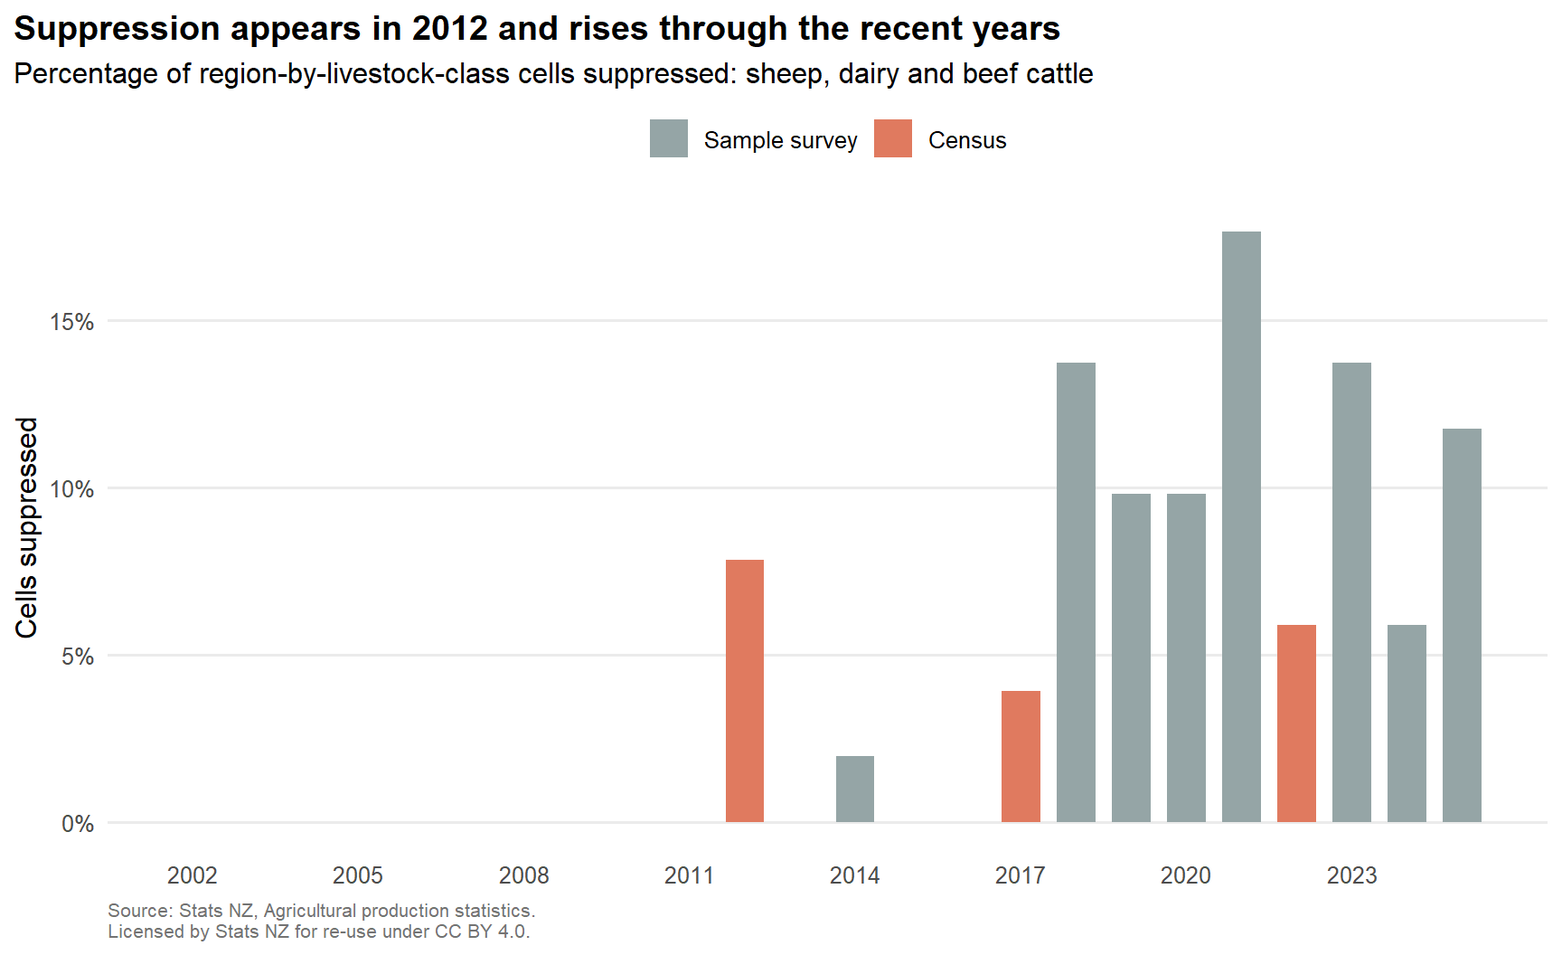
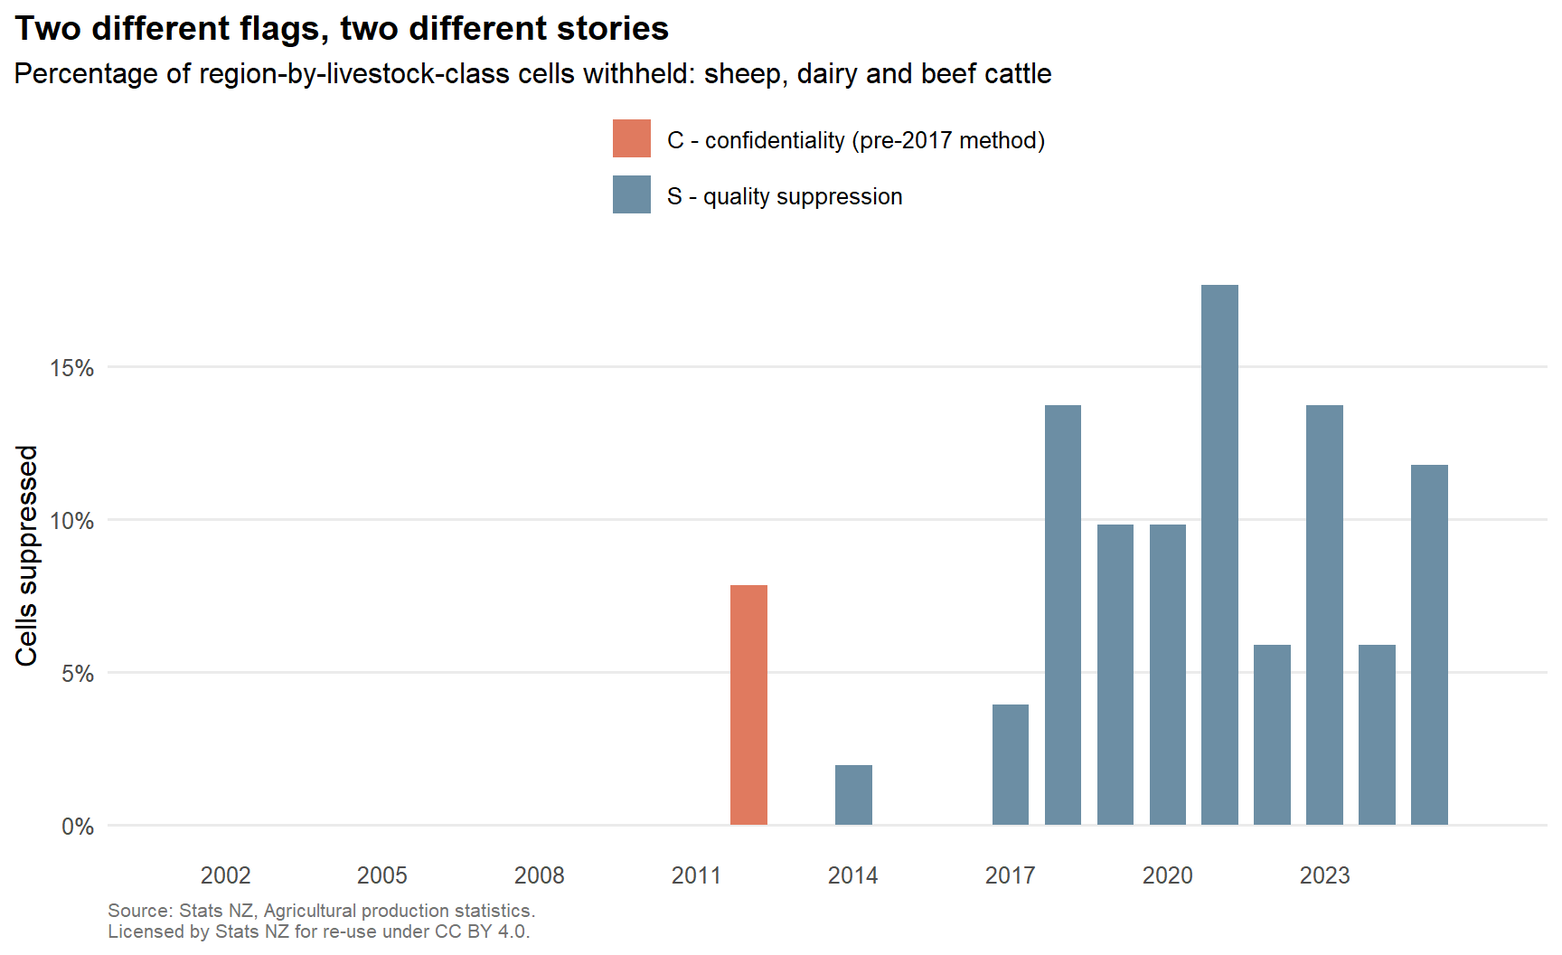
Built site for gh-pages

diff --git a/index.html b/index.html
@@ -700,29 +700,30 @@ Table&nbsp;3
 <div class="cell">
 <details class="code-fold">
 <summary>Show the code</summary>
-<div class="code-copy-outer-scaffold"><div class="sourceCode cell-code" id="cb6"><pre class="sourceCode r code-with-copy"><code class="sourceCode r"><span id="cb6-1"><a href="#cb6-1" aria-hidden="true" tabindex="-1"></a>p3 <span class="ot">&lt;-</span> <span class="fu">ggplot</span>(supp, <span class="fu">aes</span>(<span class="at">x =</span> year, <span class="at">y =</span> rate)) <span class="sc">+</span></span>
-<span id="cb6-2"><a href="#cb6-2" aria-hidden="true" tabindex="-1"></a>  <span class="fu">geom_col</span>(<span class="fu">aes</span>(<span class="at">fill =</span> is_census_year), <span class="at">width =</span> <span class="fl">0.7</span>) <span class="sc">+</span></span>
-<span id="cb6-3"><a href="#cb6-3" aria-hidden="true" tabindex="-1"></a>  <span class="fu">scale_fill_manual</span>(<span class="at">values =</span> <span class="fu">c</span>(<span class="st">"FALSE"</span> <span class="ot">=</span> <span class="st">"#95a5a6"</span>, <span class="st">"TRUE"</span> <span class="ot">=</span> <span class="st">"#e07a5f"</span>),</span>
-<span id="cb6-4"><a href="#cb6-4" aria-hidden="true" tabindex="-1"></a>                    <span class="at">labels =</span> <span class="fu">c</span>(<span class="st">"Sample survey"</span>, <span class="st">"Census"</span>), <span class="at">name =</span> <span class="cn">NULL</span>) <span class="sc">+</span></span>
-<span id="cb6-5"><a href="#cb6-5" aria-hidden="true" tabindex="-1"></a>  <span class="fu">scale_x_continuous</span>(<span class="at">breaks =</span> <span class="fu">seq</span>(<span class="dv">2002</span>, <span class="dv">2025</span>, <span class="dv">3</span>)) <span class="sc">+</span></span>
+<div class="code-copy-outer-scaffold"><div class="sourceCode cell-code" id="cb6"><pre class="sourceCode r code-with-copy"><code class="sourceCode r"><span id="cb6-1"><a href="#cb6-1" aria-hidden="true" tabindex="-1"></a>p3 <span class="ot">&lt;-</span> <span class="fu">ggplot</span>(supp_by_code, <span class="fu">aes</span>(<span class="at">x =</span> year, <span class="at">y =</span> rate)) <span class="sc">+</span></span>
+<span id="cb6-2"><a href="#cb6-2" aria-hidden="true" tabindex="-1"></a>  <span class="fu">geom_col</span>(<span class="fu">aes</span>(<span class="at">fill =</span> label), <span class="at">width =</span> <span class="fl">0.7</span>) <span class="sc">+</span></span>
+<span id="cb6-3"><a href="#cb6-3" aria-hidden="true" tabindex="-1"></a>  <span class="fu">scale_fill_manual</span>(<span class="at">values =</span> <span class="fu">c</span>(<span class="st">"C - confidentiality (pre-2017 method)"</span> <span class="ot">=</span> <span class="st">"#e07a5f"</span>,</span>
+<span id="cb6-4"><a href="#cb6-4" aria-hidden="true" tabindex="-1"></a>                               <span class="st">"S - quality suppression"</span> <span class="ot">=</span> <span class="st">"#6c8ea4"</span>), <span class="at">name =</span> <span class="cn">NULL</span>) <span class="sc">+</span></span>
+<span id="cb6-5"><a href="#cb6-5" aria-hidden="true" tabindex="-1"></a>  <span class="fu">scale_x_continuous</span>(<span class="at">breaks =</span> <span class="fu">seq</span>(<span class="dv">2002</span>, <span class="dv">2025</span>, <span class="dv">3</span>), <span class="at">limits =</span> <span class="fu">c</span>(<span class="dv">2001</span>, <span class="dv">2026</span>)) <span class="sc">+</span></span>
 <span id="cb6-6"><a href="#cb6-6" aria-hidden="true" tabindex="-1"></a>  <span class="fu">scale_y_continuous</span>(<span class="at">labels =</span> <span class="fu">label_percent</span>(<span class="at">scale =</span> <span class="dv">1</span>)) <span class="sc">+</span></span>
-<span id="cb6-7"><a href="#cb6-7" aria-hidden="true" tabindex="-1"></a>  <span class="fu">labs</span>(</span>
-<span id="cb6-8"><a href="#cb6-8" aria-hidden="true" tabindex="-1"></a>    <span class="at">title    =</span> <span class="st">"Suppression appears in 2012 and rises through the recent years"</span>,</span>
-<span id="cb6-9"><a href="#cb6-9" aria-hidden="true" tabindex="-1"></a>    <span class="at">subtitle =</span> <span class="st">"Percentage of region-by-livestock-class cells suppressed: sheep, dairy and beef cattle"</span>,</span>
-<span id="cb6-10"><a href="#cb6-10" aria-hidden="true" tabindex="-1"></a>    <span class="at">x =</span> <span class="cn">NULL</span>, <span class="at">y =</span> <span class="st">"Cells suppressed"</span>,</span>
-<span id="cb6-11"><a href="#cb6-11" aria-hidden="true" tabindex="-1"></a>    <span class="at">caption  =</span> <span class="st">"Source: Stats NZ, Agricultural production statistics.</span><span class="sc">\n</span><span class="st">Licensed by Stats NZ for re-use under CC BY 4.0."</span></span>
-<span id="cb6-12"><a href="#cb6-12" aria-hidden="true" tabindex="-1"></a>  ) <span class="sc">+</span></span>
-<span id="cb6-13"><a href="#cb6-13" aria-hidden="true" tabindex="-1"></a>  <span class="fu">theme_minimal</span>(<span class="at">base_size =</span> <span class="dv">12</span>) <span class="sc">+</span></span>
-<span id="cb6-14"><a href="#cb6-14" aria-hidden="true" tabindex="-1"></a>  <span class="fu">theme</span>(<span class="at">panel.grid.major.x =</span> <span class="fu">element_blank</span>(),</span>
-<span id="cb6-15"><a href="#cb6-15" aria-hidden="true" tabindex="-1"></a>        <span class="at">panel.grid.minor   =</span> <span class="fu">element_blank</span>(),</span>
-<span id="cb6-16"><a href="#cb6-16" aria-hidden="true" tabindex="-1"></a>        <span class="at">legend.position    =</span> <span class="st">"top"</span>,</span>
-<span id="cb6-17"><a href="#cb6-17" aria-hidden="true" tabindex="-1"></a>        <span class="at">plot.title.position =</span> <span class="st">"plot"</span>,</span>
-<span id="cb6-18"><a href="#cb6-18" aria-hidden="true" tabindex="-1"></a>        <span class="at">plot.title   =</span> <span class="fu">element_text</span>(<span class="at">face =</span> <span class="st">"bold"</span>),</span>
-<span id="cb6-19"><a href="#cb6-19" aria-hidden="true" tabindex="-1"></a>        <span class="at">plot.caption =</span> <span class="fu">element_text</span>(<span class="at">colour =</span> <span class="st">"grey45"</span>, <span class="at">hjust =</span> <span class="dv">0</span>, <span class="at">size =</span> <span class="dv">8</span>))</span>
-<span id="cb6-20"><a href="#cb6-20" aria-hidden="true" tabindex="-1"></a></span>
-<span id="cb6-21"><a href="#cb6-21" aria-hidden="true" tabindex="-1"></a><span class="fu">ggsave</span>(<span class="st">"outputs/figures/03-suppression-rate.png"</span>, p3,</span>
-<span id="cb6-22"><a href="#cb6-22" aria-hidden="true" tabindex="-1"></a>       <span class="at">width =</span> <span class="dv">9</span>, <span class="at">height =</span> <span class="dv">5</span>, <span class="at">dpi =</span> <span class="dv">200</span>, <span class="at">bg =</span> <span class="st">"white"</span>)</span>
-<span id="cb6-23"><a href="#cb6-23" aria-hidden="true" tabindex="-1"></a>p3</span></code></pre></div><button title="Copy to Clipboard" class="code-copy-button"><i class="bi"></i></button></div>
+<span id="cb6-7"><a href="#cb6-7" aria-hidden="true" tabindex="-1"></a>  <span class="fu">guides</span>(<span class="at">fill =</span> <span class="fu">guide_legend</span>(<span class="at">nrow =</span> <span class="dv">2</span>)) <span class="sc">+</span></span>
+<span id="cb6-8"><a href="#cb6-8" aria-hidden="true" tabindex="-1"></a>  <span class="fu">labs</span>(</span>
+<span id="cb6-9"><a href="#cb6-9" aria-hidden="true" tabindex="-1"></a>    <span class="at">title    =</span> <span class="st">"Two different flags, two different stories"</span>,</span>
+<span id="cb6-10"><a href="#cb6-10" aria-hidden="true" tabindex="-1"></a>    <span class="at">subtitle =</span> <span class="st">"Percentage of region-by-livestock-class cells withheld: sheep, dairy and beef cattle"</span>,</span>
+<span id="cb6-11"><a href="#cb6-11" aria-hidden="true" tabindex="-1"></a>    <span class="at">x =</span> <span class="cn">NULL</span>, <span class="at">y =</span> <span class="st">"Cells suppressed"</span>,</span>
+<span id="cb6-12"><a href="#cb6-12" aria-hidden="true" tabindex="-1"></a>    <span class="at">caption  =</span> <span class="st">"Source: Stats NZ, Agricultural production statistics.</span><span class="sc">\n</span><span class="st">Licensed by Stats NZ for re-use under CC BY 4.0."</span></span>
+<span id="cb6-13"><a href="#cb6-13" aria-hidden="true" tabindex="-1"></a>  ) <span class="sc">+</span></span>
+<span id="cb6-14"><a href="#cb6-14" aria-hidden="true" tabindex="-1"></a>  <span class="fu">theme_minimal</span>(<span class="at">base_size =</span> <span class="dv">12</span>) <span class="sc">+</span></span>
+<span id="cb6-15"><a href="#cb6-15" aria-hidden="true" tabindex="-1"></a>  <span class="fu">theme</span>(<span class="at">panel.grid.major.x =</span> <span class="fu">element_blank</span>(),</span>
+<span id="cb6-16"><a href="#cb6-16" aria-hidden="true" tabindex="-1"></a>        <span class="at">panel.grid.minor   =</span> <span class="fu">element_blank</span>(),</span>
+<span id="cb6-17"><a href="#cb6-17" aria-hidden="true" tabindex="-1"></a>        <span class="at">legend.position    =</span> <span class="st">"top"</span>,</span>
+<span id="cb6-18"><a href="#cb6-18" aria-hidden="true" tabindex="-1"></a>        <span class="at">plot.title.position =</span> <span class="st">"plot"</span>,</span>
+<span id="cb6-19"><a href="#cb6-19" aria-hidden="true" tabindex="-1"></a>        <span class="at">plot.title   =</span> <span class="fu">element_text</span>(<span class="at">face =</span> <span class="st">"bold"</span>),</span>
+<span id="cb6-20"><a href="#cb6-20" aria-hidden="true" tabindex="-1"></a>        <span class="at">plot.caption =</span> <span class="fu">element_text</span>(<span class="at">colour =</span> <span class="st">"grey45"</span>, <span class="at">hjust =</span> <span class="dv">0</span>, <span class="at">size =</span> <span class="dv">8</span>))</span>
+<span id="cb6-21"><a href="#cb6-21" aria-hidden="true" tabindex="-1"></a></span>
+<span id="cb6-22"><a href="#cb6-22" aria-hidden="true" tabindex="-1"></a><span class="fu">ggsave</span>(<span class="st">"outputs/figures/03-suppression-rate.png"</span>, p3,</span>
+<span id="cb6-23"><a href="#cb6-23" aria-hidden="true" tabindex="-1"></a>       <span class="at">width =</span> <span class="dv">9</span>, <span class="at">height =</span> <span class="dv">5</span>, <span class="at">dpi =</span> <span class="dv">200</span>, <span class="at">bg =</span> <span class="st">"white"</span>)</span>
+<span id="cb6-24"><a href="#cb6-24" aria-hidden="true" tabindex="-1"></a>p3</span></code></pre></div><button title="Copy to Clipboard" class="code-copy-button"><i class="bi"></i></button></div>
 </details>
 <div class="cell-output-display">
 <div id="fig-suppression" class="quarto-float quarto-figure quarto-figure-center anchored">
@@ -737,8 +738,13 @@ Figure&nbsp;3: Share of regional cells suppressed, by year.
 </div>
 </div>
 </div>
-<p>No cell is suppressed between 2002 and 2011. Suppression appears from 2012 and rises through the later years, peaking at 17.6 percent in 2021. The census years 2017 and 2022 sit visibly below the survey years around them, which is what a rule based on sampling error or imputation share would predict. 2012 is the exception, and this analysis does not explain it.</p>
-<p>One qualification, which matters. I cannot tell from this extract whether the zeroes before 2012 mean that no suppression was applied, or that the flag was not carried in this export. The chart shows what the file contains.</p>
+<p>Reading that chart as a single rising trend would be wrong, and the <code>OBS_STATUS</code> column is what makes the difference visible. Two flags are in use, and they are not the same mechanism.</p>
+<p>The <code>C</code> flag is confidentiality suppression. Among the three livestock classes used here it appears in 2012 and in no other year. Checked across every one of the 44 livestock codes in the raw extract, it appears in 2012–2016 and <strong>never after 2016</strong>.</p>
+<p>That is exactly what the published methodology predicts. Stats NZ states that prior to 2017, figures affected by the confidentiality provisions were denoted by <code>C</code>, and that since 2017 confidentiality has instead been implemented by an input perturbation method that adds noise at individual farm level, so output figures no longer have to be replaced with <code>C</code>. The flag stops in the file in the same year the method changed.</p>
+<p>The <code>S</code> flag is quality suppression, applied where sampling errors or imputation levels are high. It runs from 2014 to 2025, peaking at 17.6 percent of cells in 2021. The census years 2017 and 2022 sit below the survey years around them, which is what a rule keyed to sampling error would predict, since a census has no sampling error to exceed a threshold.</p>
+<p>So the 2012 spike is not a quality problem at all. All four withheld cells that year carry <code>C</code>, not <code>S</code>. Separating the two flags turns an apparent anomaly into the expected behaviour of a confidentiality rule that was replaced in 2017.</p>
+<p>One qualification remains. I cannot tell from this extract whether the absence of any flag before 2012 means no cell was withheld, or that the flag was not carried in this export. The chart shows what the file contains.</p>
+<p>Two of the affected regions are also explained in the published methodology. Sampling error could not be calculated for Nelson because only one responding unit was observed in each sampled stratum, and at least two are needed to estimate a within-stratum variance. Nelson is one of the two regions this analysis has to drop.</p>
 </section>
 <section id="independent-recomputation" class="level3">
 <h3 class="anchored" data-anchor-id="independent-recomputation">Independent recomputation</h3>
@@ -806,16 +812,17 @@ Table&nbsp;4
 </section>
 <section id="survey-design" class="level3">
 <h3 class="anchored" data-anchor-id="survey-design">Survey design</h3>
-<p>The reference period is the year ended 30 June. 2002, 2007, 2012, 2017 and 2022 are census years; every other year in the series is a sample survey stratified by regional council, industry and size. The series starts at 2002 because of a break in the target population before that year, which is also why the 1994 observation carried in the same table is excluded.</p>
+<p>The reference period is the year ended 30 June. Censuses were held in 2002, 2007, 2012, 2017 and 2022, with annual sample surveys in the intervening years. The sample is stratified by regional council area, ANZSIC06 group and size group. The 2025 survey drew 24,600 geographic locations from an estimated eligible population of 45,800; note that a geographic location is the statistical unit and is not the same thing as a farm.</p>
+<p>The series starts at 2002 because Stats NZ states that the population for the 2002 census and subsequent surveys differs from that of earlier agricultural censuses and surveys, and that figures from 2002 onward may not be directly comparable with previous years. That is also why the 1994 observation carried in the same table is excluded here. There was no agricultural production survey at all in 1997, 1998 or 2001.</p>
+<p>Values for non-respondents are imputed by random hot deck imputation, with the imputation class formed from regional council area, ANZSIC06 group and production data from previous years. This matters more than it may appear: for the 2025 survey Stats NZ reports that <strong>30 percent</strong> of the total sheep estimate was imputed, against a relative sampling error of 3 percent at 95 percent confidence. The response rate for the 2025 final release was 72.1 percent. The collection is run by Stats NZ in partnership with the Ministry for Primary Industries.</p>
 </section>
 <section id="what-was-excluded-and-why" class="level3">
 <h3 class="anchored" data-anchor-id="what-was-excluded-and-why">What was excluded, and why</h3>
 <ul>
-<li><strong>Territorial authority geography</strong> — published only in census years, so no annual series exists at that level.</li>
-<li><strong>Horticulture</strong> — not collected in many of the years in this window.</li>
-<li><strong>Forestry</strong> — a definitional break in 2022, and now an MPI rather than a Stats NZ collection.</li>
-<li><strong>Farm type</strong> — an ANZSIC96 to ANZSIC06 recode in 2007 falls inside the window.</li>
-<li><strong>Pre-2002 data</strong> — the population break described above.</li>
+<li><strong>Territorial authority geography</strong> — the surveys are designed to produce results to regional council level and the censuses to territorial authority level, so no annual series exists below the region.</li>
+<li><strong>Horticulture</strong> — not collected in 2004, 2006, 2008, 2010, 2013, 2015, 2016, 2018, 2021, 2023 or 2025, which is most of this window.</li>
+<li><strong>Forestry production</strong> — Stats NZ no longer collects or compiles forestry production statistics; they are published by MPI. Stats NZ does still collect forestry <em>land use</em>. The 2025 release also notes that additional National Exotic Forest Description data has been received and that revisions to earlier land use and forestry statistics, especially for 2016 to 2021, are planned.</li>
+<li><strong>Pre-2002 data</strong> — the population change described above, plus the absence of any survey in 1997, 1998 and 2001.</li>
 <li><strong>A choropleth map</strong> — a sorted bar chart answers “which regions contributed most” and a map does not, because a map encodes land area rather than magnitude. Canterbury, Otago and Southland are also three of the largest regions by area, which is precisely the confound a map would introduce.</li>
 <li><strong>A second data set</strong> — the question is answerable inside one table, and every extra source adds provenance to defend without adding evidence.</li>
 </ul>
@@ -826,6 +833,37 @@ Table&nbsp;4
 <p>Regional council is the only geography available annually; territorial authority exists only in census years, so any sub-regional time series is structurally unavailable rather than merely unpublished. Suppression now runs above ten percent of cells and is concentrated in the same small regions — Auckland, Nelson, Chatham Islands — so those regional trends are already unusable, and a suppression-aware grouping that pooled them would preserve more signal than suppressing them one at a time does. And the alternating census-and-survey design makes every regional series in this table structurally uneven, which belongs on the output rather than being left for a user to discover from a reconciliation residual.</p>
 <p>There is also a class of question this data cannot answer at all: anything at farm level, or any breakdown finer than what is published. The access route for those questions is approved microdata under the Five Safes framework, which I have not used here.</p>
 </section>
+<section id="sources-for-the-methodological-statements" class="level3">
+<h3 class="anchored" data-anchor-id="sources-for-the-methodological-statements">Sources for the methodological statements</h3>
+<p>Every statement about the collection above was read on the page cited here, not carried over from secondary summaries.</p>
+<table class="caption-top table">
+<thead>
+<tr class="header">
+<th>Statement</th>
+<th>Source</th>
+</tr>
+</thead>
+<tbody>
+<tr class="odd">
+<td>Census years 2002, 2007, 2012, 2017, 2022; sample surveys in between; eligible population 45,800 and sample 24,600 geographic locations; stratification by regional council, ANZSIC06 group and size group; 2025 response rate 72.1 percent; sampling error and imputation levels by line code; GST registration level of $60,000 giving “partial and unquantifiable” coverage below it; random hot deck imputation and imputation class; <code>C</code> before 2017 and input perturbation since; <code>S</code> for data with high sample errors or imputation levels; Nelson variance not estimable; horticulture years; forestry production now MPI; Tier 1 statistics</td>
+<td><a href="https://datainfoplus.stats.govt.nz/item/nz.govt.stats/a9908d00-4827-46b2-a38a-310c0c75b029">Agricultural Production Statistics: June 2025 (Final), DataInfo+</a></td>
+</tr>
+<tr class="even">
+<td>Programme run in partnership with MPI; provisional mid-December plus final mid-May up to 2024, single final mid-April from 2025; 2002 population differs from earlier collections; no survey in 1997, 1998, 2001; regional council annually and territorial authority in censuses</td>
+<td><a href="https://datainfoplus.stats.govt.nz/item/nz.govt.stats/6362a469-f374-412e-ac25-d76fd0962003">Agriculture Production Statistics series, DataInfo+</a></td>
+</tr>
+<tr class="odd">
+<td>Release date of 16 April 2026 for the year to June 2025; NEFD data and planned revisions for 2016–2021</td>
+<td><a href="https://www.stats.govt.nz/information-releases/agricultural-production-statistics-year-to-june-2025/">Agricultural production statistics: Year to June 2025</a></td>
+</tr>
+<tr class="even">
+<td>Mana Ōrite Relationship Agreement signed with the Data Iwi Leaders Group of the National Iwi Chairs Forum on 30 October 2019</td>
+<td><a href="https://www.stats.govt.nz/about-us/what-we-do/mana-orite-relationship-agreement/">Mana Ōrite Relationship Agreement</a></td>
+</tr>
+</tbody>
+</table>
+<p>Statements I could not source on those pages are not made anywhere in this report. Pages read 4 September 2026.</p>
+</section>
 </section>
 <section id="limitations" class="level2">
 <h2 class="anchored" data-anchor-id="limitations">Limitations</h2>
@@ -833,15 +871,16 @@ Table&nbsp;4
 <li>Non-census years are <strong>sample estimates</strong>. I have not recomputed their sampling errors and I have applied no weighting of my own. A year-on-year movement in a single small region should not be read as real change.</li>
 <li>Suppressed cells are retained as <code>NA</code> and counted. Two regions are excluded from the 2002–2025 change entirely for that reason.</li>
 <li>The sheep-to-cattle comparisons are <strong>ratios of head counts</strong>. They are not claims about stocking rate, feed demand, land use or emissions.</li>
-<li>The target population is GST-registered agricultural businesses. Coverage of the smallest farms is partial and not quantifiable from published data.</li>
+<li>The frame is Stats NZ’s Business Register, which is built on GST registration. The compulsory registration level is $60,000, and Stats NZ describes coverage of units below that level as “partial and unquantifiable”.</li>
+<li><strong>Imputation is large.</strong> Stats NZ reports 30 percent of the 2025 total sheep estimate as imputed. Every regional figure in a survey year carries that, and this analysis does nothing to correct for it.</li>
+<li>Since 2017, confidentiality has been implemented by input perturbation, which adds noise at individual farm level. It is small relative to the effects discussed here, but it is present in every year from 2017 on.</li>
 <li>Choosing 2002 and 2025 as endpoints is a choice. A 2015–2025 window gives the same qualitative answer, with the same three regions accounting for 59 percent of the fall rather than 54 percent.</li>
-<li>Input perturbation has been applied to agricultural statistics since 2017. It is small relative to every effect discussed here, but it is present.</li>
 </ul>
 </section>
 <section id="ethics" class="level2">
 <h2 class="anchored" data-anchor-id="ethics">Ethics</h2>
 <p>This analysis uses published regional aggregates only. No microdata and no IDI access is involved, so the Five Safes framework does not apply to it.</p>
-<p>Stats NZ identifies Māori-owned farms in this collection by matching the Agricultural Production Survey against the Tatauranga umanga Māori population. Under Māori data sovereignty principles, and under the Mana Ōrite Relationship Agreement, the authority to interpret and narrate that data sits with iwi Māori and Stats NZ. It does not sit with an unaffiliated analyst. That is why this report does not comment on it.</p>
+<p>Stats NZ lists Tatauranga Umanga Māori among the internal users of this collection, and signed the Mana Ōrite Relationship Agreement with the Data Iwi Leaders Group of the National Iwi Chairs Forum in October 2019. Any Māori-specific cut of this data therefore sits inside an established relationship between Stats NZ and iwi Māori. It does not sit with an unaffiliated analyst working from published aggregates, which is why this report does not attempt one and does not characterise the terms of that agreement.</p>
 </section>
 <section id="reproduce" class="level2">
 <h2 class="anchored" data-anchor-id="reproduce">Reproduce</h2>
